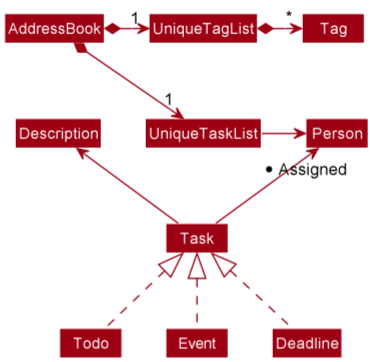
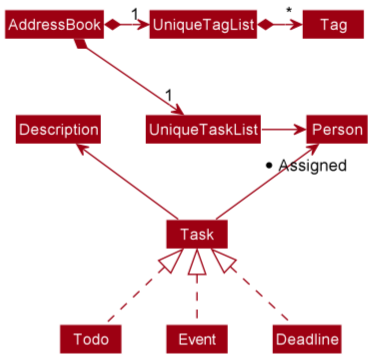
Update DG

diff --git a/docs/DeveloperGuide.md b/docs/DeveloperGuide.md
@@ -116,7 +116,7 @@ How the parsing works:
 ### Model component
 **API** : [`Model.java`](https://github.com/AY2122S2-CS2103-F11-1/tp/blob/master/src/main/java/manageezpz/model/Model.java)
 
-<img src="images/ModelClassDiagram.png" width="450" />
+<img src="images/ModelClassDiagramUpdated.png" width="450" />
 
 
 The `Model` component,
@@ -129,9 +129,7 @@ The `Model` component,
 * does not depend on any of the other three components (as the `Model` represents data entities of the domain, they should make sense on their own without depending on other components)
 
 <div markdown="span" class="alert alert-info">:information_source: **Note:** An alternative (arguably, a more OOP) model is given below. It has a `Tag` list in the `TaskList`, which `Task` references. This allows `TaskList` to only require one `Tag` object per unique tag, instead of each `Task` needing their own `Tag` objects.<br>
-
 <img src="images/BetterModelClassDiagramUpdated.png" width="450" />
-
 </div>
 
 
